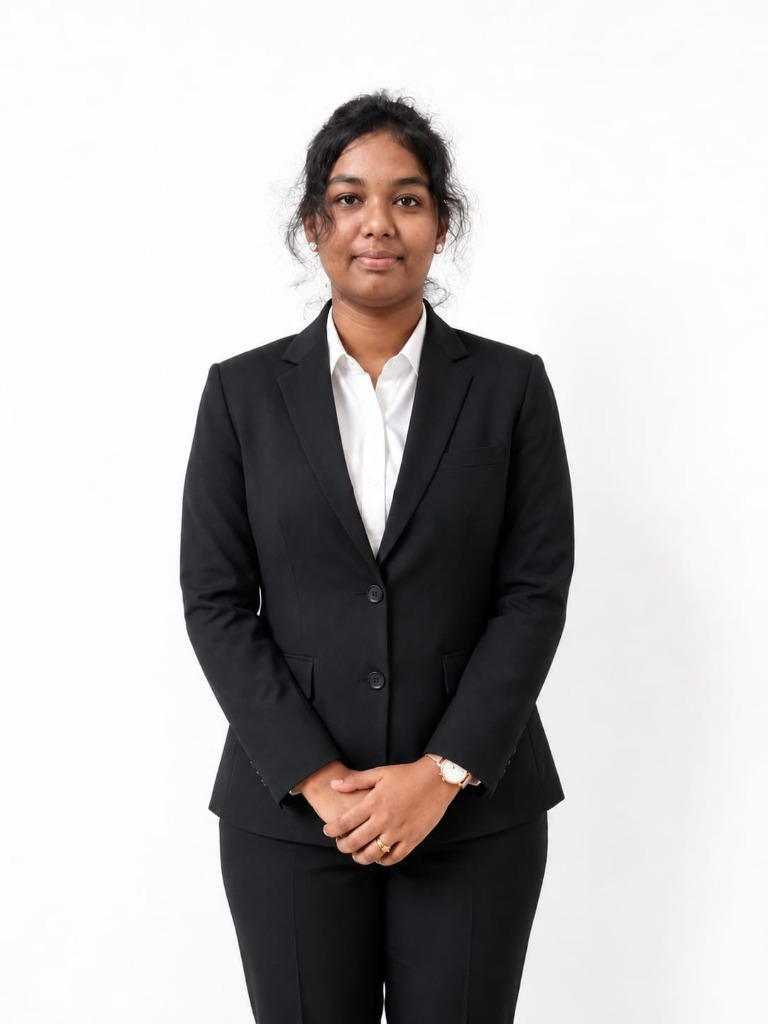
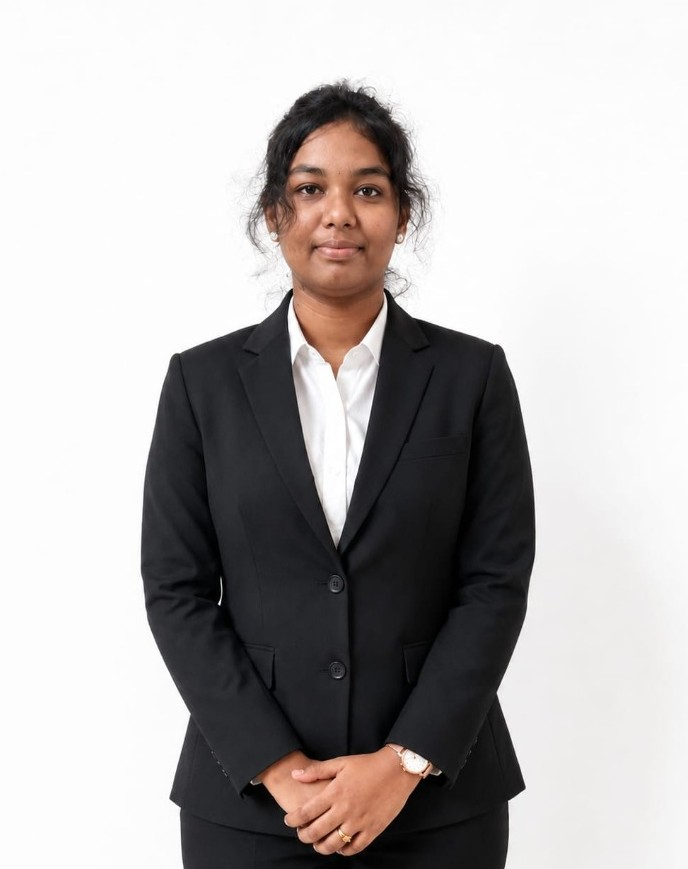
feat: implement OurTeam component with updated team member data and assets

Changed region(s): [[0.1831, 0.0621, 0.7936, 1.0], [0.3663, 0.6525, 0.4273, 0.7146]]

diff --git a/web/src/components/OurTeam.tsx b/web/src/components/OurTeam.tsx
@@ -9,8 +9,8 @@ import namasivayenImage from "@/assets/NAMASIVAYEN N S.webp";
 import nithishKumarImage from "@/assets/NITHISH KUMAR V.webp";
 import pallaviImage from "@/assets/PALLAVI_OLD.jpg";
 import vivehaImage from "@/assets/VIVEHA V.png";
-import viswaGuruPrasathImage from "@/assets/VISWA GURU PRASATH J .webp";
-import yogeshImage from "@/assets/YOGESH M.webp";
+import viswaGuruPrasathImage from "@/assets/VISWA GURU PRASATH J.jpg";
+import yogeshImage from "@/assets/YOGESH M.jpg";
 import "@/styles/team-cards.scss";
 import ProfileCard from "./ProfileCard";
 
